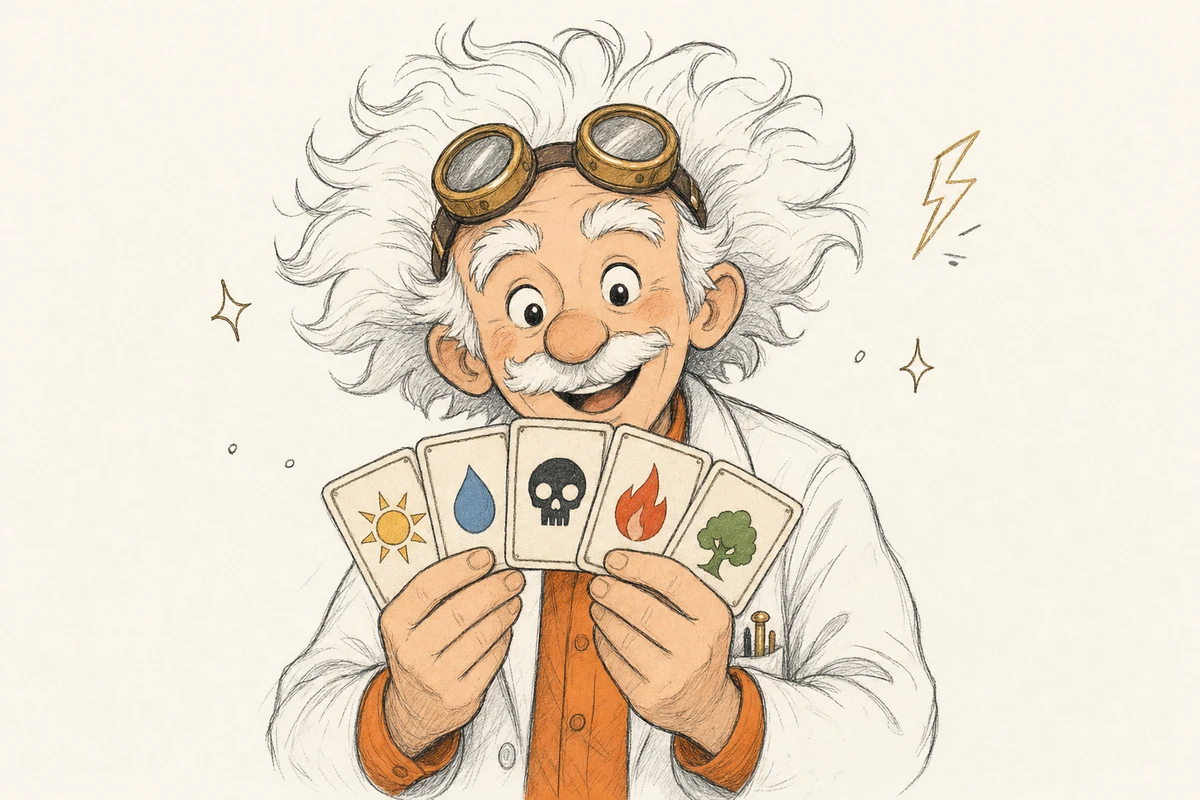
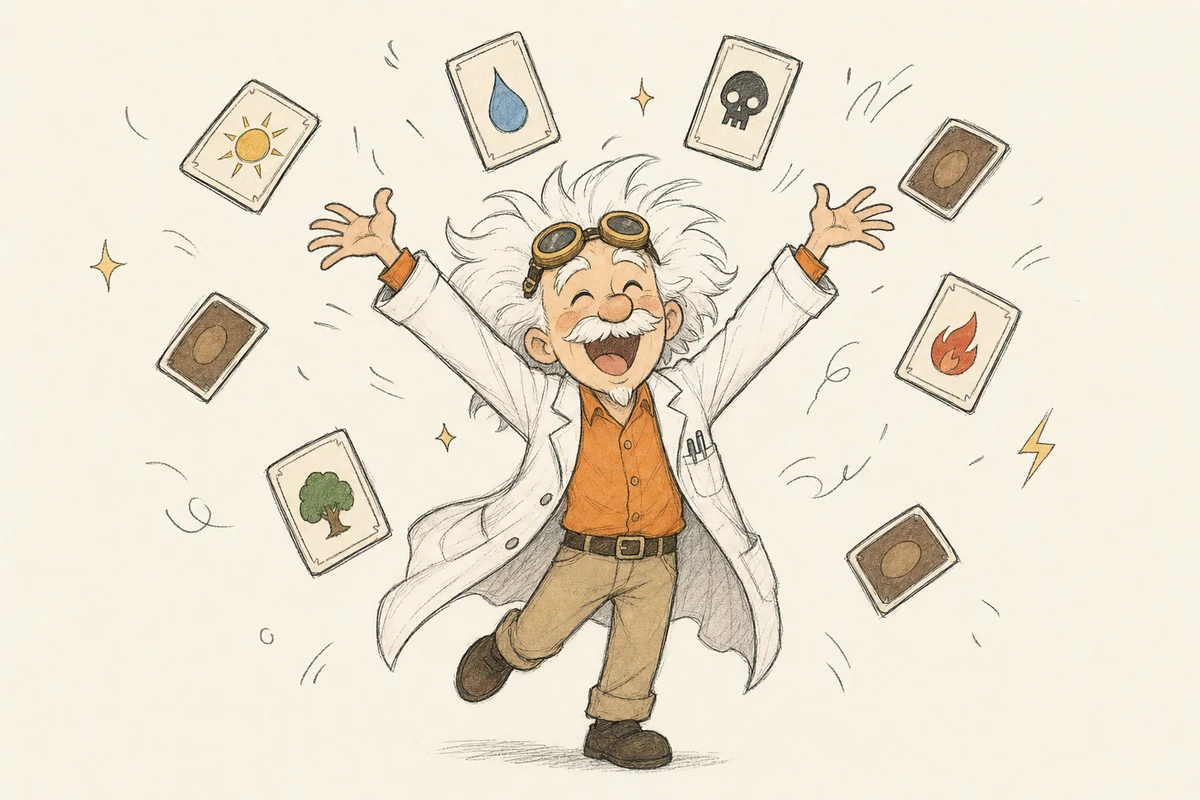
README illustration: the doc throwing cards

diff --git a/README.md b/README.md
@@ -1,7 +1,7 @@
 # mtg-doc
 
 <p align="center">
-  <img src="docs/mtg-doc.webp" alt="A hand-drawn wild-haired inventor happily holding a fan of Magic cards" width="720">
+  <img src="docs/mtg-doc.webp" alt="A hand-drawn wild-haired inventor joyfully throwing Magic cards into the air" width="720">
 </p>
 
 <p align="center"><em>Great Scott, that mana base needs work.</em></p>
